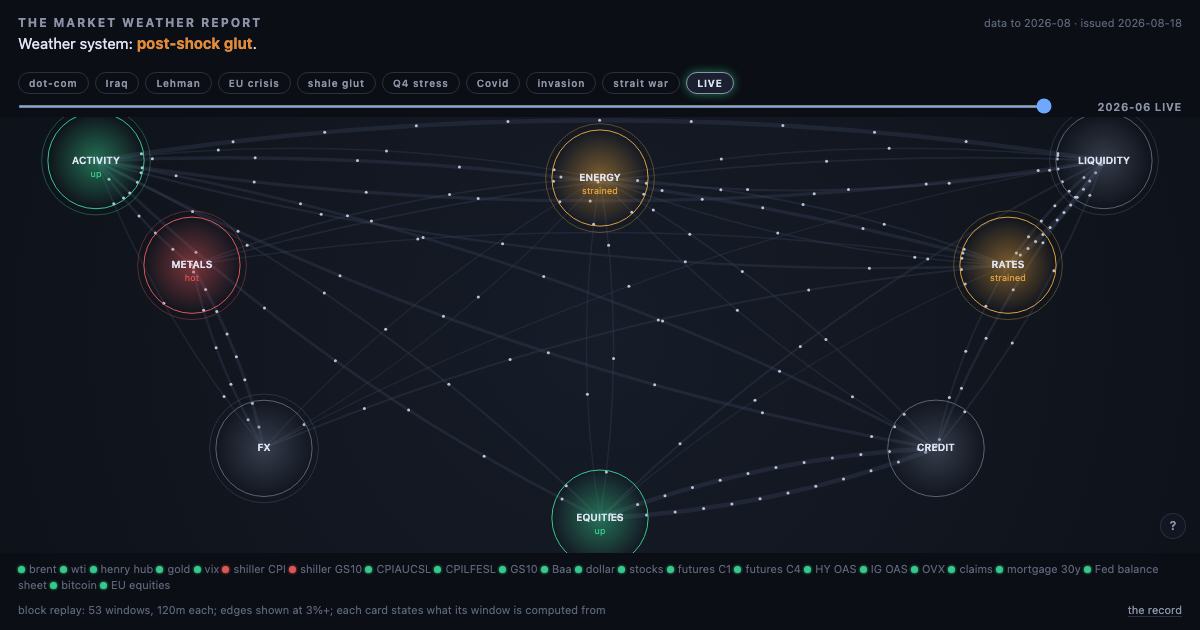
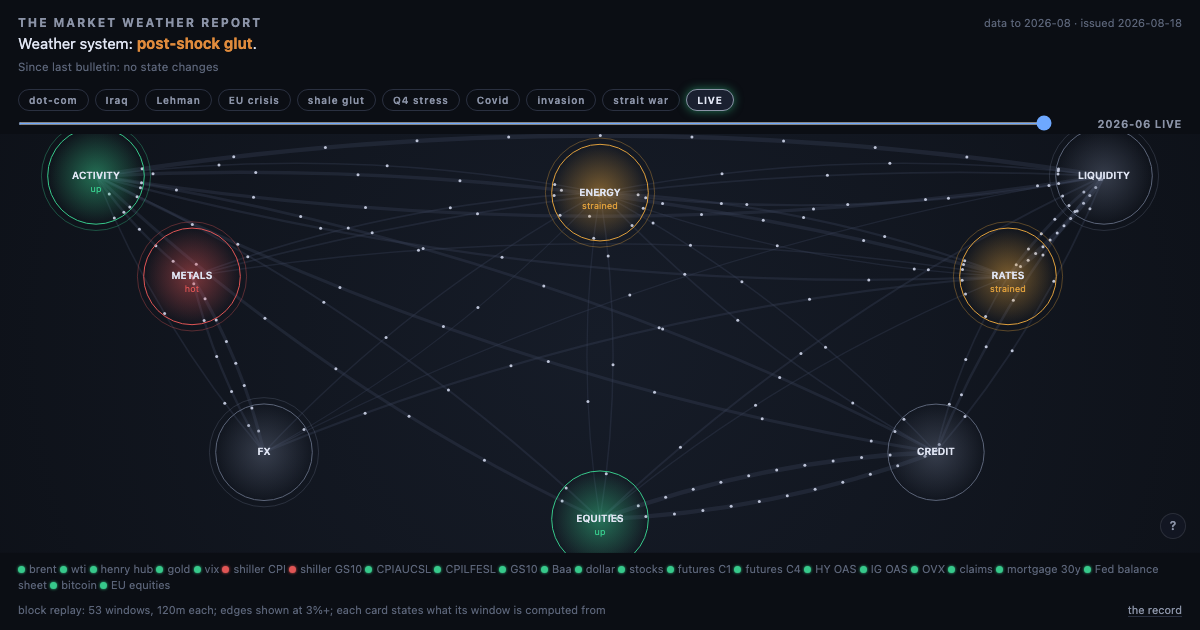
v4: wrap, launch screenshots and the aesthetic report
share.png regenerated from the deployed page. Launch screenshots of
the deployed stage at LIVE and of the record page scorecard head.
reports/v4_aesthetic.md records the visual changes, the byte-identical
payload, both smoke passes on both pages, the frame-time sample and
the screenshot paths.

diff --git a/reports/v4_aesthetic.md b/reports/v4_aesthetic.md
@@ -1,0 +1,146 @@
+# v4 aesthetic restoration
+
+Branch `aesthetic-v4`, merged to `main` on 2026-08-22, outside the
+September publication window. Site layer only.
+
+## 1. What changed visually, stage
+
+1. The stage renders to a canvas layer instead of generated SVG
+   markup. The coordinate system, POS map, click hit-testing at radius
+   forty-six, pins, slider, cards and DATA access are the ones that
+   were already there.
+2. Surface is `#0b0e14` under a radial vignette that lifts the centre
+   by six points of luminance to `#161c28` and falls back to base. The
+   gradient is built once per resize and filled per frame.
+3. Blocks are radial gradient discs, family colour at half alpha in
+   the core falling to zero at radius forty-six, with a one-pixel rim
+   in the same colour. The rim is solid for a block live in the frame
+   and dashed for one awaiting data. A faint outer ring at radius
+   fifty-two marks a block holding an in-frame member that joined
+   after founding. Family colour still comes from the existing famcode
+   priority logic.
+4. Orbs breathe between scale one and one and five hundredths. The
+   period is one and six tenths of a second plus two and two tenths
+   times the block's strongest member confidence at LIVE, so a surer
+   block breathes slower and deeper. Scrubbed into history every block
+   takes a uniform calm breath at six tenths.
+5. Edges are quadratic curves with the control point pushed
+   perpendicular from the midpoint by eight percent of the segment
+   length. A faint neutral stroke sits underneath at the width the
+   previous build used. Particles travel source to destination on top,
+   respawning at source, count set by the edge percentage and capped
+   globally at four hundred with proportional allocation above the
+   cap. Across all fifty-three frames the busiest allocation is two
+   hundred and forty-two particles on forty-eight edges, so the cap
+   never binds on current data.
+6. Edge percentages are hidden at rest. They appear on a block's
+   incident edges while it is selected, and on a single edge while the
+   pointer is over its midpoint. Block names and family words are
+   unchanged.
+7. The active pin carries a soft glow in the dominant family colour of
+   its frame, the modal non-calm family across blocks in that month,
+   grey when there is none. Slider styling is untouched.
+8. Cards are frosted glass over a solid fallback, with a hairline
+   white border and a three-pixel glow on the lamp dots. Content and
+   wording are unchanged except that the separator between an
+   instrument and its state is now a middle dot rather than an em
+   dash, which the house style forbids. The middle dot was already the
+   separator in the header line.
+
+## 2. Reduced motion
+
+`prefers-reduced-motion: reduce` is read once at init through
+`matchMedia`. Under it the orbs are flat discs with their rims and no
+breathing, and the edges are the static strokes with no particles.
+Everything else, including every honesty line, renders identically.
+
+## 3. Honesty lines at rest
+
+The footer block-replay line, the window count, the edge rule, the
+health lamps, the per-card composition line, the awaiting-data markers
+and the no-data-in-this-window note all render in the resting view.
+None of them moved behind interaction.
+
+## 4. The three audience gaps
+
+1. Share embed. Both pages carry og:type, og:site_name, og:title,
+   og:description, og:url, og:image with dimensions, and the twitter
+   summary_large_image card. The description is the live banner
+   sentence followed by a standing sentence, injected at build time and
+   worded without numerals. The image is `share.png` at an absolute
+   URL.
+2. Legend overlay. A small button at the bottom right of the stage
+   opens a frosted panel with five lines: what a node is, what colour
+   means, what an edge percentage means, what breathing means, and one
+   line on the gates linking to the record. Words only, no numerals,
+   dismissed by tapping outside.
+3. Changed since last bulletin. `publish` now also writes
+   `state/prev_states.json`, the published month's state map. The next
+   build reads it and injects one line under the banner naming the
+   instruments whose state moved, in words with no numerals, or "no
+   state changes". It is page only: it never enters the payload, the
+   payload builder or the bulletin. This month it reads no state
+   changes, which is correct, because the published month and the
+   built month are the same.
+
+## 5. Record page
+
+Surface, ink, dim, faint and line tokens now match the stage, with a
+static background vignette and a three-pixel glow on the legend lamp
+dots. There is no motion of any kind. The family colour variables are
+deliberately untouched, so the strip rows render exactly as before,
+and the sections, notes and wording are unchanged.
+
+## 6. Payload identity
+
+`state/site_data.json` is byte-identical before and after an identical
+month run, confirmed by `git diff --quiet HEAD -- state/site_data.json`
+returning clean after every rebuild in this branch. No decoder, gate,
+check, chain entry or bulletin text was touched. The chain stands at
+one hundred and thirty-seven entries, head `d91eee75311cc0ce`,
+unchanged by this work.
+
+## 7. Smoke passes
+
+`tests/js_smoke.mjs` stubs `matchMedia` and runs each page twice, once
+with reduced motion off and once on, with the canvas 2d methods stubbed
+as no-ops. Final run:
+
+1. `node tests/js_smoke.mjs index.html` OK, both motion passes.
+2. `node tests/js_smoke.mjs report.html` OK, both motion passes.
+3. `python3 -m pytest tests/ -q` 23 passed.
+
+## 8. Frame time
+
+Measured in Chrome on this M-class laptop at viewport 1280 by 527,
+device pixel ratio capped at two, thirty-seven edges and two hundred
+particles, over three hundred consecutive draws with the first fifty
+discarded:
+
+1. mean 0.122 ms
+2. median 0.100 ms
+3. p95 0.200 ms
+4. max 0.600 ms
+
+Against a target of under three milliseconds per frame. The
+requestAnimationFrame loop skips drawing entirely while
+`document.hidden` is true. The temporary sample used to take this
+measurement was removed from the template before merge.
+
+## 9. Screenshots
+
+1. `reports/screenshots/launch_stage.png`, the deployed stage at LIVE
+   with the banner and the since-last-bulletin line.
+2. `reports/screenshots/launch_record_scorecard.png`, the deployed
+   record page at the head of the scorecard.
+3. `share.png`, the share card, regenerated at 1200 by 630 from the
+   deployed page.
+
+## 10. Limitations
+
+1. The proportional particle allocation above the four hundred ceiling
+   is implemented but never exercised by current data, whose busiest
+   frame allocates two hundred and forty-two.
+2. `share.png` is a static render committed to the repository. It does
+   not follow the live banner and needs regenerating whenever the
+   weather word changes.
